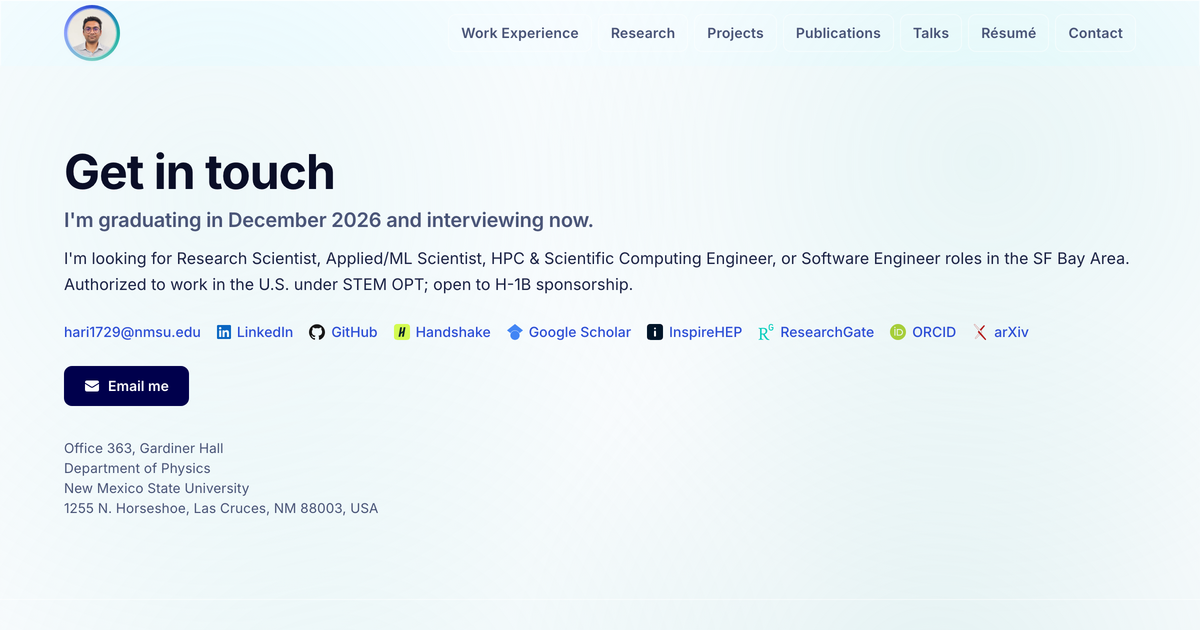
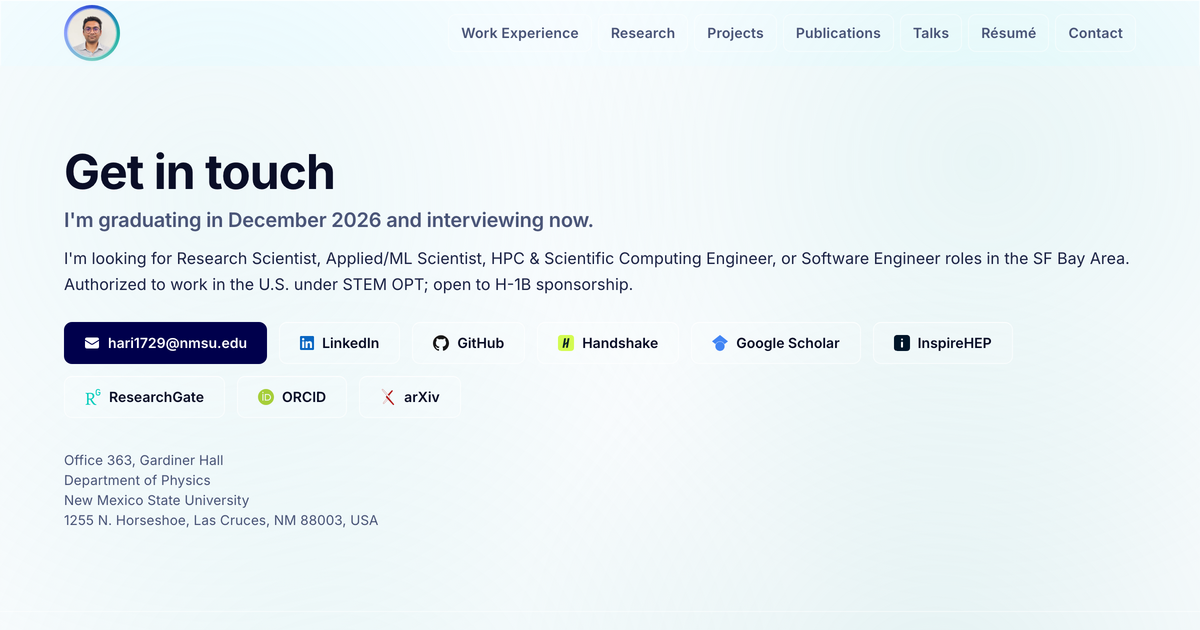
Give CTA buttons an Apple-style liquid-glass hover material
The old "secondary" button variant was just a static frosted-glass class
with a brightness tweak on hover — it read as a plain bordered button, not
glass. Add a new .material-glass tier (deeper blur/tint that intensifies on
hover, kept separate from .material-trim so nav pills/chips are unaffected)
plus a shared .glass-sheen specular sweep and a subtle whileHover scale on
every Button/LinkButton, so Email me, LinkedIn, GitHub, Handshake, View
Projects, and Download Résumé all react to the pointer like a bead of glass
rather than just changing color.

Also converts Contact page's LinkedIn/GitHub/Handshake/Google
Scholar/InspireHEP/ResearchGate/ORCID/arXiv row from plain underlined text
into real glass pill buttons, and removes the now-redundant duplicate
"Email me" button (merged into the email-address pill above it). Hero's
"Email me" moves off the unused `ghost` variant (removed — zero remaining
call sites) onto the same glass `secondary` variant as every other CTA.

Claude-Session: https://claude.ai/code/session_01GTPTjaH1mNkbWrrToSVVRM

diff --git a/app/globals.css b/app/globals.css
@@ -63,6 +63,15 @@
   --glass-trim-blur: 16px;
   --glass-trim-shadow: var(--shadow-sm);
 
+  /* Liquid-glass button material — a separate, more reactive tier from
+     --glass-trim-* (also used by .nav-pill) so buttons can deepen their
+     blur/tint on hover without changing the nav. */
+  --glass-btn-bg: rgba(255, 255, 255, 0.14);
+  --glass-btn-bg-hover: rgba(255, 255, 255, 0.32);
+  --glass-btn-border: rgba(255, 255, 255, 0.6);
+  --glass-btn-blur: 18px;
+  --glass-btn-blur-hover: 28px;
+
   /* Deprecated aliases — kept equal to a tier so existing arbitrary-value
      classes (bg-[var(--glass-bg)]) keep working during incremental
      migration. Remove once every component references a tier var directly. */
@@ -305,6 +314,54 @@ p {
   -webkit-backdrop-filter: blur(var(--glass-trim-blur)) saturate(160%);
 }
 
+/* Liquid-glass buttons (Button.tsx's "secondary" variant + the Contact page
+   link pills) — deepens its blur/tint on hover/focus, like a bead of glass
+   reacting to the pointer, instead of .material-trim's static frost. */
+.material-glass {
+  background: var(--glass-btn-bg);
+  border: 1px solid var(--glass-btn-border);
+  border-top: 1px solid rgba(255, 255, 255, 0.85);
+  backdrop-filter: blur(var(--glass-btn-blur)) saturate(180%);
+  -webkit-backdrop-filter: blur(var(--glass-btn-blur)) saturate(180%);
+  transition:
+    background 250ms ease,
+    backdrop-filter 250ms ease;
+}
+.material-glass:hover,
+.material-glass:focus-visible {
+  background: var(--glass-btn-bg-hover);
+  backdrop-filter: blur(var(--glass-btn-blur-hover)) saturate(200%);
+  -webkit-backdrop-filter: blur(var(--glass-btn-blur-hover)) saturate(200%);
+}
+
+/* Specular sheen shared by every Button/LinkButton variant (§Button.tsx) —
+   a soft diagonal highlight that sweeps across on hover, the same "light
+   catching the material" idea as .material-chrome's bright top edge, but
+   animated. Lives on ::after (not ::before) so it never collides with
+   .gradient-ring-cta's ::before border on the same element. */
+.glass-sheen {
+  position: relative;
+  overflow: hidden;
+}
+.glass-sheen::after {
+  content: "";
+  position: absolute;
+  inset: 0;
+  background: linear-gradient(
+    115deg,
+    transparent 40%,
+    rgba(255, 255, 255, 0.55) 50%,
+    transparent 60%
+  );
+  transform: translateX(-120%);
+  transition: transform 500ms ease;
+  pointer-events: none;
+}
+.glass-sheen:hover::after,
+.glass-sheen:focus-visible::after {
+  transform: translateX(120%);
+}
+
 /* Nav pills: hover deepens the tint + shifts the border to the accent hue
    (the pointer-driven "color flow" — paired with .spotlight's cursor glow);
    the active page gets a brand-tinted border instead (wayfinding). */
@@ -374,12 +431,23 @@ p {
     --glass-surface-blur: 0px;
     --glass-trim-blur: 0px;
 
+    --glass-btn-bg: var(--surface-0);
+    --glass-btn-bg-hover: var(--surface-50);
+    --glass-btn-border: var(--line);
+    --glass-btn-blur: 0px;
+    --glass-btn-blur-hover: 0px;
+
     --glass-bg: var(--surface-0);
     --glass-bg-heavy: var(--surface-0);
     --glass-border: var(--line);
     --glass-blur-sm: 0px;
     --glass-blur-md: 0px;
     --glass-blur-lg: 0px;
+  }
+  /* No blur to deepen, and the sheen sweep is a glass-only flourish — skip
+     it so a solid button doesn't get a stray light streak. */
+  .glass-sheen::after {
+    display: none;
   }
 }
 
@@ -389,10 +457,12 @@ p {
     --glass-chrome-border: var(--ink-700);
     --glass-surface-border: var(--ink-700);
     --glass-trim-border: var(--ink-500);
+    --glass-btn-border: var(--ink-500);
   }
   .material-chrome,
   .material-surface,
-  .material-trim {
+  .material-trim,
+  .material-glass {
     border-width: 1.5px;
   }
 }

diff --git a/components/ui/Button.tsx b/components/ui/Button.tsx
@@ -2,15 +2,14 @@
 
 import type { AnchorHTMLAttributes, ButtonHTMLAttributes, ReactNode } from "react";
 import { motion } from "framer-motion";
-import { springPress } from "@/lib/springs";
+import { springDefault, springPress } from "@/lib/springs";
 
 const BASE =
   "inline-flex items-center justify-center gap-2 rounded-[var(--r-sm)] px-5 py-2.5 text-sm font-semibold transition-colors focus-visible:outline-none focus-visible:ring-2 focus-visible:ring-[var(--brand-500)] focus-visible:ring-offset-2";
 
 const VARIANTS = {
-  primary: "bg-[var(--brand-900)] text-white hover:opacity-90",
-  secondary: "material-trim text-[var(--ink-900)] hover:brightness-110",
-  ghost: "text-[var(--brand-500)] hover:underline",
+  primary: "glass-sheen bg-[var(--brand-900)] text-white hover:opacity-90",
+  secondary: "material-glass glass-sheen text-[var(--ink-900)]",
 };
 
 type Variant = keyof typeof VARIANTS;
@@ -38,8 +37,8 @@ export function Button({
 }) {
   return (
     <motion.button
-      whileTap={{ scale: 0.97 }}
-      transition={springPress}
+      whileHover={{ scale: 1.03, transition: springDefault }}
+      whileTap={{ scale: 0.97, transition: springPress }}
       className={`${BASE} ${VARIANTS[variant]} ${className}`}
       {...props}
     >
@@ -59,8 +58,8 @@ export function LinkButton({
 }) {
   return (
     <motion.a
-      whileTap={{ scale: 0.97 }}
-      transition={springPress}
+      whileHover={{ scale: 1.03, transition: springDefault }}
+      whileTap={{ scale: 0.97, transition: springPress }}
       className={`${BASE} ${VARIANTS[variant]} ${className}`}
       {...props}
     >

diff --git a/app/contact/page.tsx b/app/contact/page.tsx
@@ -57,29 +57,23 @@ export default function ContactPage() {
           under STEM OPT; open to H-1B sponsorship.
         </p>
 
-        <div className="mt-6 flex flex-wrap items-center gap-x-4 gap-y-2 text-sm font-medium">
-          <a href={`mailto:${CONTACT.email}`} className="text-[var(--brand-500)] hover:underline">
+        <div className="mt-6 flex flex-wrap gap-3">
+          <LinkButton href={`mailto:${CONTACT.email}`} variant="primary">
+            <MailIcon className="h-4 w-auto" />
             {CONTACT.email}
-          </a>
+          </LinkButton>
           {LINKS.map((link) => (
-            <a
+            <LinkButton
               key={link.label}
               href={link.href}
+              variant="secondary"
               target="_blank"
               rel="noopener noreferrer"
-              className="inline-flex items-center gap-1.5 text-[var(--brand-500)] hover:underline"
             >
               <link.Icon className="h-4 w-auto" />
               {link.label}
-            </a>
+            </LinkButton>
           ))}
-        </div>
-
-        <div className="mt-6">
-          <LinkButton href={`mailto:${CONTACT.email}`} variant="primary">
-            <MailIcon className="h-4 w-auto" />
-            Email me
-          </LinkButton>
         </div>
 
         <div className="text-small mt-8 text-[var(--ink-500)]">

diff --git a/components/ui/SocialLinks.tsx b/components/ui/SocialLinks.tsx
@@ -28,7 +28,7 @@ export default function SocialLinks() {
           target="_blank"
           rel="noopener noreferrer"
           aria-label={`${label} (opens in a new tab)`}
-          className="material-trim inline-flex items-center gap-1.5 rounded-full px-3 py-1.5 text-sm font-medium text-[var(--ink-700)] transition-[filter] hover:brightness-110 focus-visible:outline-none focus-visible:ring-2 focus-visible:ring-[var(--brand-500)] focus-visible:ring-offset-2"
+          className="material-glass glass-sheen inline-flex items-center gap-1.5 rounded-full px-3 py-1.5 text-sm font-medium text-[var(--ink-700)] transition-transform duration-200 ease-out hover:scale-[1.03] focus-visible:scale-[1.03] focus-visible:outline-none focus-visible:ring-2 focus-visible:ring-[var(--brand-500)] focus-visible:ring-offset-2"
         >
           <Icon className="h-4 w-auto" />
           {label}

diff --git a/components/home/Hero.tsx b/components/home/Hero.tsx
@@ -125,7 +125,7 @@ export default function Hero() {
         >
           Download Résumé
         </LinkButton>
-        <LinkButton href="mailto:hari1729@nmsu.edu" variant="ghost">
+        <LinkButton href="mailto:hari1729@nmsu.edu" variant="secondary">
           <MailIcon className="h-4 w-auto" />
           Email me
         </LinkButton>
